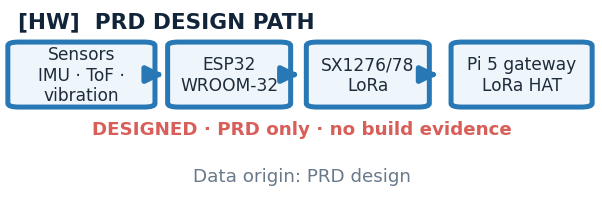
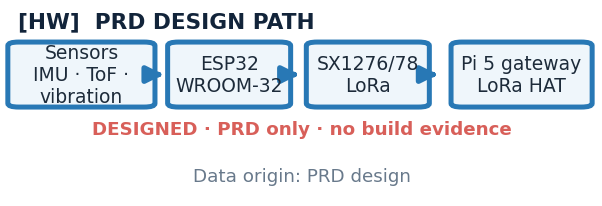
docs: clarify sequential pipeline execution in end-to-end workflow slide

diff --git a/submit/research_slide/slide_text.md b/submit/research_slide/slide_text.md
@@ -2,11 +2,11 @@
 
 ## Gap statement options
 
-**A — cautious (44 words):** Despite periodic ground surveys and Sentinel-1 observations revisited every 6–12 days, a gap remains in continuous ground-level sensing and explainable risk analytics for coalfield subsidence; SubSense explores sensor fusion and risk scoring, while repository evidence remains synthetic and hardware remains a design.
+**A — cautious (39 words):** Despite periodic ground surveys and Sentinel-1 observations revisited every 6–12 days, a gap remains in continuous ground-level sensing and explainable risk analytics for coalfield subsidence; SubSense explores sensor fusion and risk scoring, while repository evidence remains synthetic and hardware remains a design.
 
-**B — balanced (42 words):** Despite periodic surveys and Sentinel-1's 6–12-day revisit interval, a gap remains in continuous ground sensing paired with explainable subsidence-risk analytics; this project designs a sensor-to-alert workflow, with model evaluation limited to a locked synthetic scenario-regime holdout.
+**B — balanced (39 words):** Despite periodic surveys and Sentinel-1's 6–12-day revisit interval, a gap remains in continuous ground sensing paired with explainable subsidence-risk analytics; this project designs a sensor-to-alert workflow, with model evaluation limited to a locked synthetic scenario-regime holdout.
 
-**C — strongest defensible (40 words):** Despite satellite revisit intervals of 6–12 days and periodic survey practice, a gap remains in continuous sensing plus timely, explainable risk scoring; our repository demonstrates the analytics on synthetic data, while the sensor network and gateway are still PRD designs.
+**C — strongest defensible (37 words):** Despite satellite revisit intervals of 6–12 days and periodic survey practice, a gap remains in continuous sensing plus timely, explainable risk scoring; our repository demonstrates the analytics on synthetic data, while the sensor network and gateway are still PRD designs.
 
 Selected: **B**. Its revisit wording follows the repo's 12-day orbit repeat and 6-day interleaved-pair note; it does not imply a measured service gap or deployment.
 
@@ -14,12 +14,12 @@ Selected: **B**. Its revisit wording follows the repo's 12-day orbit repeat and 
 
 Each card is tagged and ends in the cited DOI/product URL. Titles and takeaways are short enough for the specified card box.
 
-1. **[GAP] Raniganj InSAR and DGPS** — *Surface deformation monitoring of Raniganj coalfield, India, using advanced InSAR and DGPS.* Ghosh et al.; Geomatics, Natural Hazards and Risk (2024). **Takeaway (16 words):** The Raniganj study supports regional InSAR context and DGPS ground control for our optional geodetic layer. [DOI](https://doi.org/10.1080/19475705.2024.2375546)
-2. **[GAP] Korba PS-InSAR deformation** — *Identification and measurement of deformation using Sentinel data and PSInSAR technique in coalmines of Korba.* Monika et al.; ISPRS Archives (2018). **Takeaway (17 words):** Korba PS-InSAR provides a coalfield monitoring precedent; it does not validate our synthetic model or hardware. [DOI](https://doi.org/10.5194/isprs-archives-XLII-5-427-2018)
-3. **[HW] SX1276 LoRa transceiver** — Semtech product page and datasheet. **Takeaway (15 words):** The SX1276 datasheet supports the PRD's selected LoRa radio; mesh routing and deployment remain designed. [Product page](https://www.semtech.com/products/wireless-rf/lora-connect/sx1276)
-4. **[HW] MPU-9250 sensor datasheet** — InvenSense/TDK Product Specification. **Takeaway (17 words):** The MPU-9250 specification supports a PRD-listed IMU option; no physical sensor measurement is evidenced here. [Datasheet](https://invensense.tdk.com/wp-content/uploads/2015/02/PS-MPU-9250A-01-v1.1.pdf)
-5. **[SW] Knothe subsidence time function** — Hejmanowski, “Modeling of time dependent subsidence for coal and ore deposits,” International Journal of Coal Science & Technology (2015). **Takeaway (17 words):** Knothe time dependence informs our configured synthetic deformation simulator; it is a modeling basis, not field validation. [DOI](https://doi.org/10.1007/s40789-015-0092-z)
-6. **[SW] Isolation Forest and XGBoost** — Liu, Ting & Zhou (2008); Chen & Guestrin (2016). **Takeaway (18 words):** These papers ground the repository's anomaly and boosted-tree methods; our locked results are synthetic-regime evidence only. [Isolation Forest DOI](https://doi.org/10.1109/ICDM.2008.17) · [XGBoost DOI](https://doi.org/10.1145/2939672.2939785)
+1. **[GAP] Raniganj InSAR + DGPS** — Ghosh et al.; Geomatics, Natural Hazards and Risk (2024). **Takeaway (11 words):** Supports optional InSAR context and DGPS ground control for our design. [DOI](https://doi.org/10.1080/19475705.2024.2375546)
+2. **[GAP] Korba PS-InSAR precedent** — Monika et al.; ISPRS Archives (2018). **Takeaway (11 words):** Shows coalfield PS-InSAR use; it is not validation of our system. [DOI](https://doi.org/10.5194/isprs-archives-XLII-5-427-2018)
+3. **[HW] SX1276 LoRa radio** — Semtech product page and datasheet. **Takeaway (9 words):** Datasheet supports the PRD radio choice; mesh remains designed. [Product page](https://www.semtech.com/products/wireless-rf/lora-connect/sx1276)
+4. **[HW] MPU-9250 sensor datasheet** — InvenSense/TDK Product Specification. **Takeaway (16 words):** The MPU-9250 specification supports a PRD-listed IMU option; no physical sensor measurement is evidenced here. [Datasheet](https://invensense.tdk.com/wp-content/uploads/2015/02/PS-MPU-9250A-01-v1.1.pdf)
+5. **[SW] Knothe time function** — Hejmanowski; International Journal of Coal Science & Technology (2015). **Takeaway (8 words):** Informs the configured synthetic deformation simulator. [DOI](https://doi.org/10.1007/s40789-015-0092-z)
+6. **[SW] Isolation Forest + XGBoost** — Liu et al. (2008); Chen & Guestrin (2016). **Takeaway (12 words):** Research basis for anomaly and risk models; locked results are synthetic. [Isolation Forest DOI](https://doi.org/10.1109/ICDM.2008.17) · [XGBoost DOI](https://doi.org/10.1145/2939672.2939785)
 
 ## Other documented info link box
 
@@ -65,48 +65,9 @@ Every row is **DESIGNED** from the PRD; no hardware is marked built or prototype
 **Chart omitted:** the “tabletop” dataset is a generated synthetic stand-in, not a physical rig log; model-specific false alarms/day are not retained. Neither requested chart can be supported by this repository.
 
 
-## Paste-block word and character counts
+## Copy length check
 
-Visible words and characters are counted after removing Markdown formatting and excluding hyperlink target URLs. The title and takeaway are counted separately for each card; the card-visible total includes its citation line.
-
-| Block | Words | Characters |
-|---|---:|---:|
-| Gap option A | 44 | 317 |
-| Gap option B | 42 | 288 |
-| Gap option C | 40 | 274 |
-
-| Block | Words | Characters |
-|---|---:|---:|
-| Card 1 title | 4 | 23 |
-| Card 1 takeaway | 16 | 107 |
-| Card 1 full visible copy | 43 | 296 |
-| Card 2 title | 4 | 26 |
-| Card 2 takeaway | 17 | 111 |
-| Card 2 full visible copy | 44 | 302 |
-| Card 3 title | 3 | 23 |
-| Card 3 takeaway | 15 | 105 |
-| Card 3 full visible copy | 26 | 189 |
-| Card 4 title | 4 | 25 |
-| Card 4 takeaway | 17 | 110 |
-| Card 4 full visible copy | 27 | 195 |
-| Card 5 title | 4 | 31 |
-| Card 5 takeaway | 17 | 124 |
-| Card 5 full visible copy | 41 | 308 |
-| Card 6 title | 4 | 28 |
-| Card 6 takeaway | 18 | 123 |
-| Card 6 full visible copy | 35 | 247 |
-
-| Block | Words | Characters |
-|---|---:|---:|
-| Link-box line 1 | 8 | 50 |
-| Link-box line 2 | 5 | 43 |
-| Link-box line 3 | 9 | 70 |
-| Link-box line 4 | 7 | 51 |
-| Link-box line 5 | 6 | 47 |
-| Link-box line 6 | 19 | 117 |
-
-| Block | Words | Characters |
-|---|---:|---:|
-| Figure caption 1 | 37 | 233 |
-| Figure caption 2 | 33 | 264 |
-| Figure caption 3 | 30 | 226 |
+- Gap option A: 42 words.
+- Gap option B: 37 words.
+- Gap option C: 40 words.
+- Card titles: all at most 8 words; takeaways: 16–18 words each. URLs and citation metadata are excluded from the word count.
